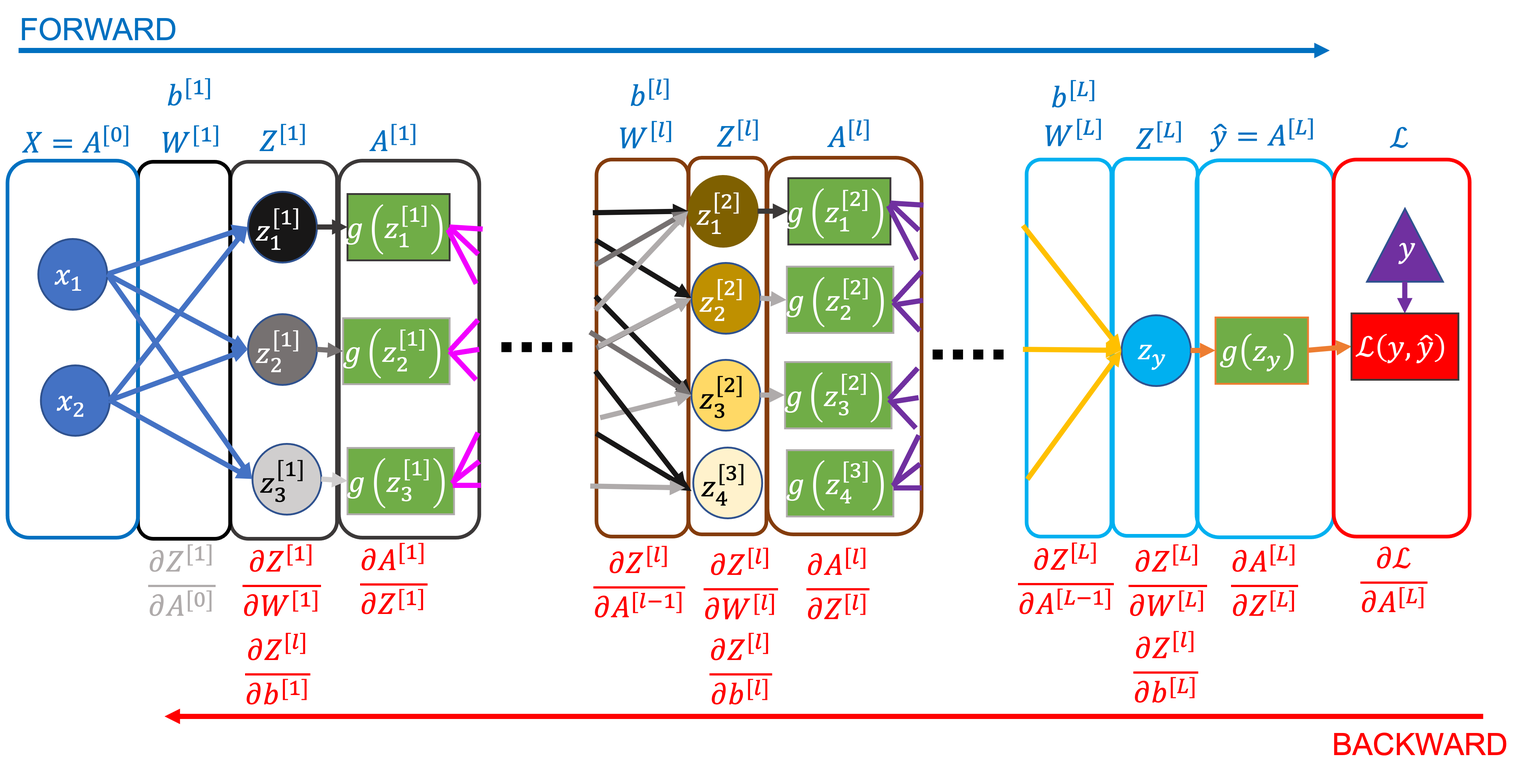
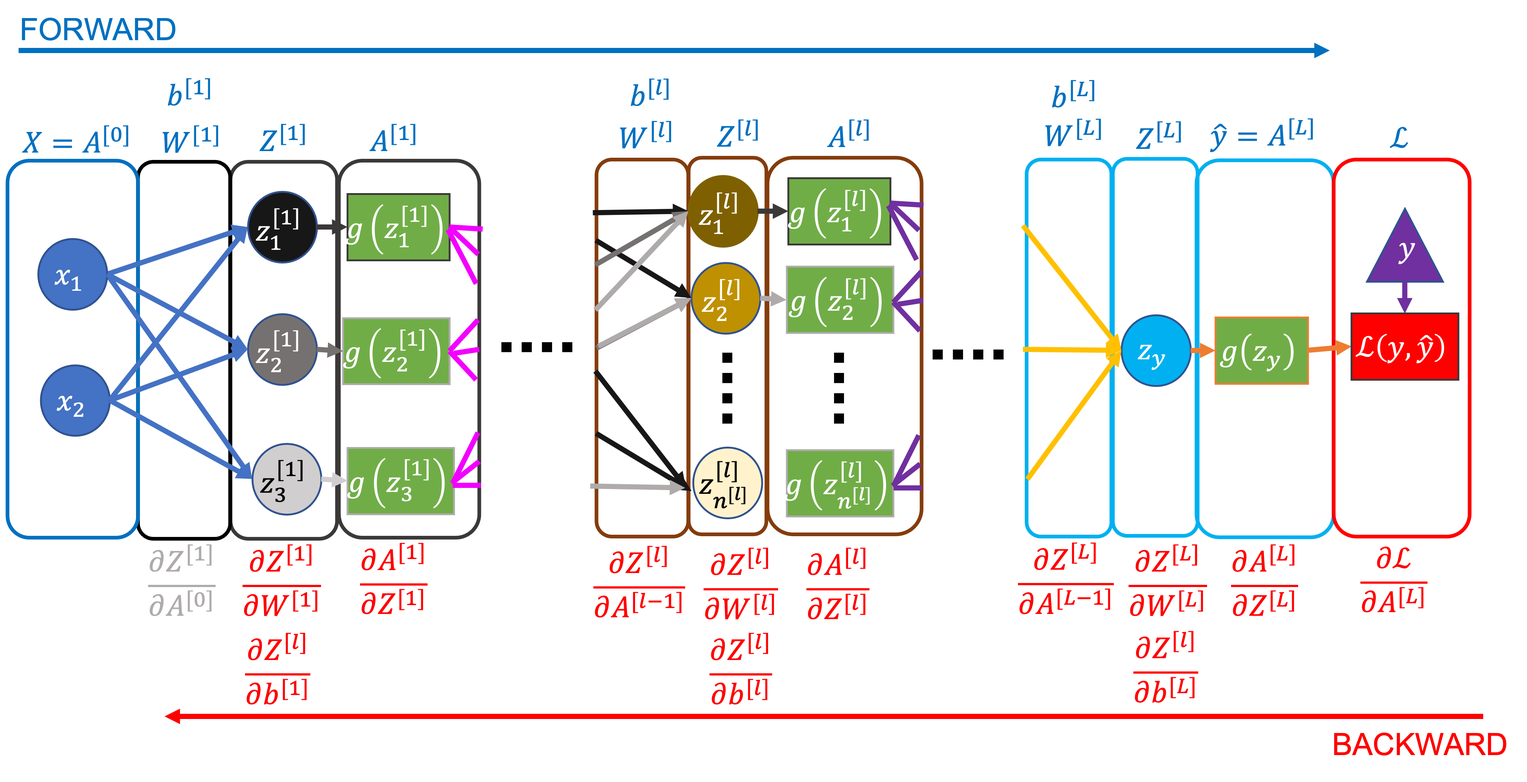
Deploying to gh-pages from @ jack89roberts/learning-deep-learning@58d3941f9498f17a0a6089c68a31f3fc6d2b3da1 🚀

diff --git a/searchindex.js b/searchindex.js
@@ -1,1 +1,1 @@
-Search.setIndex({docnames:["README","index","notebooks/01_linear_regression","notebooks/02_logistic_regression","notebooks/03_backprop","notebooks/04_matrix_notation","notebooks/05_relu","notebooks/06_multiclass"],envversion:{"sphinx.domains.c":2,"sphinx.domains.changeset":1,"sphinx.domains.citation":1,"sphinx.domains.cpp":5,"sphinx.domains.index":1,"sphinx.domains.javascript":2,"sphinx.domains.math":2,"sphinx.domains.python":3,"sphinx.domains.rst":2,"sphinx.domains.std":2,"sphinx.ext.intersphinx":1,sphinx:56},filenames:["README.md","index.md","notebooks/01_linear_regression.ipynb","notebooks/02_logistic_regression.ipynb","notebooks/03_backprop.ipynb","notebooks/04_matrix_notation.ipynb","notebooks/05_relu.ipynb","notebooks/06_multiclass.ipynb"],objects:{},objnames:{},objtypes:{},terms:{"0":[2,3,4,5,6,7],"00":2,"000000e":2,"001":2,"0030":3,"005":2,"0059909":2,"01":3,"0136":3,"0153":2,"01_happi":2,"02":[2,7],"025":2,"02_dummy_data":3,"0341":3,"05":3,"072423":2,"085261e":2,"094917e":2,"1":[2,5,6,7],"10":[2,3,6,7],"100":[2,3,6,7],"1000":[2,3],"10000":2,"109686":2,"11":[2,3],"119499e":2,"12":[2,6],"121838e":2,"1264":3,"13":[2,3,6],"1346":3,"14":[2,6],"1465":2,"15":[2,6],"15000":[2,3],"16":2,"1613":2,"163980e":2,"1649":3,"17":2,"171814e":2,"178392e":2,"18":3,"19":2,"1st":[2,3,5],"2":[5,6,7],"20":[2,7],"200":[3,6],"2000":3,"216":2,"217249e":2,"220604e":2,"24":[2,3],"25":[2,3],"250":7,"286937":2,"2920":3,"2929":2,"293":2,"2d":[2,3],"2m":2,"2n":2,"2nd":[2,3,5],"2u":4,"3":[2,3,4,5,6,7],"30":7,"30000":[3,7],"3080":2,"311051e":2,"3170":2,"3407":2,"343107e":2,"344933e":2,"3494":2,"35":3,"355":2,"389":2,"3d":3,"3f":2,"3rd":5,"4":[2,3],"40":7,"4054":2,"4111":2,"4113":3,"4204":3,"444550":2,"446739":2,"4600":3,"5":[2,3,6,7],"50":[2,7],"5000":[2,3],"5082":2,"509":2,"525590":2,"528":2,"5463":2,"550109e":2,"5579":3,"5619":2,"6":2,"628":2,"648788":2,"661338e":2,"677973e":2,"6969":3,"7":[2,3,6],"701":2,"7050":2,"7213":2,"75":2,"750":2,"8":[2,3],"802309":2,"817569e":2,"8198":3,"832":2,"832712":2,"854895806":3,"856466e":2,"863064":2,"885135748052889":2,"9":[3,6],"95":2,"9564e":2,"96":2,"97":2,"98":2,"99":[2,3],"999679e":2,"case":[2,3,4,5],"class":[2,3,7],"do":5,"final":[2,3,4],"float":[2,3,7],"function":[4,5,7],"import":[2,3,4,6],"long":[2,5],"new":[1,2,3,7],"return":[2,3,6],"true":[2,3,4,6],"try":3,A:[0,4,5],And:[2,5],As:2,But:[3,5],By:5,For:[3,4],If:4,In:[2,3,4,5,6],It:[1,3,4],No:2,One:3,Or:1,Such:4,The:[2,4,5],Then:[0,2,4],There:4,These:4,To:[0,2,3,4,5],With:[1,7],_:[2,3],a1:3,a_1:4,a_2:4,a_3:4,a_:4,a_k:4,abl:2,about:[1,3],abov:[2,4,5],academ:1,accumul:2,accur:5,activ:[2,3,4,5],actual:[2,3,4],ad:5,adapt:3,add:[2,3,5],add_ax:3,addit:2,addmmbackward0:2,after:[2,3,4],again:[2,4],aka:[3,5],algebra:1,algorithm:4,all:[2,3,4],allow:3,almost:3,alpha:[2,3,4],also:[3,4],altern:3,alwai:3,an:[2,3,4,5,7],analysi:1,ani:[4,5],anoth:3,anywher:2,appear:[2,3],append:[2,3],appli:[0,1,3,5,7],applic:3,ar:[2,3,4,5],arbitrari:7,aren:2,around:3,arrai:[2,3],arrang:2,arrow:[2,4,5],articl:3,assum:[3,4],automat:[2,4],avail:2,averag:2,ax:[2,3,6],axes_grid1:3,axi:[2,3],b00:3,b01:3,b:[2,3,4,5,6],b_1:5,b_2:4,b_:[2,5],b_h:2,b_k:4,b_plot:3,b_y:2,back:[2,3],backpropag:[2,3],backward:[2,3,4],balanc:3,base:2,basi:4,basic:2,batch:2,bce_l:3,bceloss:3,bcewithlogitsloss:3,been:1,befor:2,begin:5,belong:3,below:[2,3],best:2,better:2,between:[2,3,4,5],bia:[2,3,4,5],bias:[2,4],bigger:2,binari:3,black:2,blue:4,bmatrix:5,book:1,both:[2,3],bottom:2,bound:3,broadli:2,broken:2,brows:0,bs:3,build:[1,2],built:2,bwr:3,c:[2,3],c_:3,cach:4,calcul:4,calculu:1,call:[2,6],can:[4,5],captur:3,cax:3,cbar_kw:2,cell:6,center:3,cf:3,chang:[3,4],choic:2,choos:2,classic:1,classif:7,clear:5,clearer:4,clone:0,clumsi:5,cmap:3,coffe:2,collect:[0,2],color:[2,4,6],colorbar:3,colour:3,column:[2,5],com:3,combin:[3,4],come:[2,7],comfort:1,common:4,comput:[2,3,5],connect:[2,4],consid:[3,4,5],constrain:1,contain:5,continu:3,contourf:3,convent:2,converg:2,convert:2,convex:3,copi:[5,6],correspond:[2,5],cost:[4,5],could:[2,3,4],count:2,cours:1,cover:4,creat:[2,3,4,5],cross:3,csv:[2,3],cubic:[2,3],cup:2,current:[1,2,5],d:[1,2,3,4],dabbl:1,dai:2,data:[1,2,3,4,7],dataset:[3,5],deep:2,def:[2,3,6],defin:[2,3,5,6],definit:[2,3,5],deliveri:2,delta:2,dens:2,depend:0,deriv:[2,4],dervi:4,descent:5,describ:2,despit:1,detach:[2,3],detail:3,develop:1,deviat:2,df:2,diagram:[2,3],didn:1,differ:[2,5],differenti:2,dimens:5,directori:0,divid:[2,3],doc:3,document:[0,1],done:[2,3],down:[1,2],downward:3,dr:6,draw:3,drawn:3,drelu_dz:6,dsigmoid_dx:6,dtype:[2,3,7],due:[2,3],dummi:3,dure:4,e3baef06a00bb9a39a6968acf78121e:3,e:[1,2,3,4,5],each:[2,3,4,5],earlier:[2,3],easier:3,eat:2,edg:4,effect:3,effici:5,element:5,els:3,encount:3,end:[5,7],engin:1,enough:2,entir:2,entropi:3,epoch:[2,3],equat:5,error:[2,3],erwan:3,estim:3,etc:4,everi:[3,5],everyth:3,exactli:5,exampl:[2,3,5,7],except:4,exp:[3,4,6],expand:[2,5],experi:1,explicit:5,explicitli:[3,5],exposur:1,express:[2,4,5],extra:2,f:[2,3,4,7],fairli:[1,4],fals:[3,7],familiar:5,far:[3,5],faster:2,featur:[2,4,5],feed:4,few:1,fig:[2,3,6],figsiz:[2,3,6],figur:3,find:2,first:[2,3,4,5],fit:2,fit_and_plot:3,flexibl:7,fn00:3,fn01:3,fn10:3,focu:1,focus:1,follow:[3,4,5],form:[2,4,5],formal:1,forward:2,found:2,four:4,frac:[2,3,4],framework:4,from:[1,2,4,5],g00:3,g01:3,g:[1,3,4,5],gener:[1,3,4,5],geq:3,get:[2,3,4,5],get_cubic_data:[3,7],get_figur:3,gist:3,github:[0,3],give:3,given:[2,4,5],go:[2,5],gpu:2,grad_fn:[2,3],gradient:5,gradient_desc:2,grai:4,green:4,group:1,guess:2,h:[2,4],h_:2,ha:[2,3,4,5],had:[1,2,3],happi:2,hat:[2,3,4,5],have:[1,2,3,4,5],heatmap:2,help:1,here:[2,3,4,5,7],hiddden:3,hidden:[2,4,5,7],higher:2,hope:1,how:[2,3,4,5],http:[0,3],hyperparamet:2,i:[2,3,4],idea:3,ident:3,imbalanc:3,implement:[2,3,4],implicit:2,improv:3,in_featur:[2,3,7],includ:[2,4],increas:[2,7],indic:2,individu:5,ineffici:5,infti:3,initi:[2,3],initialis:2,inner:2,input:[2,4,5],instal:0,intercept:2,interest:[3,4],interfac:0,intermedi:[4,5],introduc:4,intuit:[1,2,7],involv:4,io:0,ipykernel_1815:3,iter:[2,5],iterrow:2,itertool:[2,3],its:[2,3,4],j:[4,5],jack89robert:0,jax:4,job:1,journal:1,journei:[0,1],jupyt:0,just:2,k:[2,3,4],know:2,known:[2,3],l:[2,3,4,5],label:[2,3,4,6,7],labels_predict:3,lambda:3,larg:2,last:[4,5,6],later:2,latest:1,layer:[4,7],learn:4,learning_r:[2,3,7],left:[2,3,4],legend:[2,3,6],len:[2,3],length:[2,3],leq:[2,3],less:5,let:[2,3,4],librari:2,like:[1,2,3,4],likelihood:3,limit:3,line:[2,5,6],linear:[1,4,5,7],linear_model:3,linearli:3,linearregress:3,linewidth:[2,3],linspac:[2,3,6],littl:1,ll:[2,3],loadtxt:3,loc:3,local:3,log:[3,4],log_loss:3,logist:7,longer:3,look:3,loop:[2,4],loss:[4,5],loss_fn:[2,3,7],loss_histori:[2,3,7],loss_valu:[2,3],lot:1,lower:3,lr:[2,3,7],lw:3,m:[2,5],machin:1,magenta:4,mai:[1,2],main:[1,2],major:4,make:[2,3,4,5],make_axes_locat:3,mani:[1,2,4],manual:3,map:3,marker:3,match:2,math:2,mathbf:5,mathcal:[4,5],mathrm:4,matplotlib:[2,3],matric:5,matrix:4,max:[2,3],maximis:2,maximum:3,me:2,mean:[2,3,4],mean_squared_error:3,meshgrid:3,method:1,metric:3,might:[3,5],min:[2,3],mini:2,minima:3,minimis:2,minimum:2,misclassifi:3,model:[2,3,7],modifi:3,more:[1,2,3,5,7],most:[2,6],mostli:[1,4],move:[1,4,5],mpl_toolkit:3,mse:2,mse_l:3,mseloss:2,much:5,multi:7,multipli:[2,4,5],must:4,my:[0,1],myself:1,n:[2,3,5,7],name:[2,3,6],named_paramet:[2,3],nameerror:6,natur:2,nb:2,necessarili:2,need:[2,3,4,5],neg:3,network:[4,5,7],neural:4,new_horizont:3,next:2,nfor:7,nice:2,nn:[2,3,7],node:4,non:[2,3,7],none:[2,3,7],normal:3,notat:2,note:[2,3,4],now:[2,3,5],np:[2,3,6],number:[2,5,7],numer:3,numpi:[2,3,5,6],o:2,offic:2,often:3,one:[2,3,4,5],onli:2,oper:[4,5],optim:[2,3,7],optimis:[1,2,3],orang:[2,4,6],order:2,other:[1,3,5],otherwis:3,our:[2,3,4],out:2,out_featur:[2,3,7],outlier:3,output:[2,3,4,5],over:[1,2],overal:4,overflow:3,own:2,packag:0,pad:3,painstakingli:2,panda:2,param:[2,3],paramet:[2,3,4,5,7],part:[2,3],partial:[2,4],pass:2,pd:2,per:[2,5],perfectli:3,perform:[4,7],pick:2,pip:0,plan:1,plot:[2,3,6],plot_decision_boundari:3,plot_loss_grid_1d:2,plot_loss_grid_2d:2,plot_predict:2,plot_surfac:3,plt:[2,3,6],plu:2,point:[3,4,5,7],polynomi:3,poor:7,posit:3,possibl:4,potenti:7,pre:1,pred:[2,3],predict:[2,3,4,5],predictor:[3,5],prefer:3,presenc:3,previou:[2,4,5],previous:7,print:[2,3],print_weight:[3,7],probabl:3,problem:5,product:[2,3],progress:1,project:[1,3],propag:2,properti:4,provid:3,py:3,pyplot:[2,3],python:1,pytorch:4,quadrat:2,quantiti:4,r:[0,2,3,6],random:[2,3],randomli:2,rang:[2,3],rare:1,rate:[2,4],rather:[3,5],ravel:3,re:[2,3],read:1,read_csv:2,recent:[1,6],recov:3,recreat:3,red:4,reduc:2,region:3,regress:[1,7],regularis:7,rel:2,relabel:4,rememb:[2,3,4],remind:3,replac:[2,4],repo:0,repres:[4,5],requir:0,requisit:1,research:1,reshap:[2,3],resourc:1,respect:[2,3,4,5],right:[2,3,4,5],rightarrow:[2,4,5],round:2,row:[2,5],run:0,runtimewarn:3,s:[1,4,5,7],same:[2,3,4,5],sampl:[2,3],saw:3,scale:[2,3],scatter:[2,3],scienc:1,seaborn:2,second:[2,5],see:[0,2,3],seen:[4,5],select:2,sens:1,sensit:3,separ:3,sequenc:2,sequenti:[2,3,7],set_titl:[2,3],set_xlabel:[2,3,6],set_ylabel:[2,3],set_ylim:3,set_zlabel:3,seven:4,sgd:[2,3,7],shape:3,share:4,sharei:[2,6],sharex:6,show:[3,5],show_actu:3,show_data:3,show_result:[3,7],shown:[2,3],side:[1,4],sigma:6,sigmoid:[4,6,7],similar:[1,2],simon:3,simpl:[3,4],simpler:[4,5],simplifi:4,singl:[2,3],site:0,six:5,size:[2,3,5],sklearn:3,slicebackward0:[2,3],slightli:2,slope:3,slower:2,small:[2,4],sn:2,so:[2,3,4,5],softmax:7,softwar:1,some:[2,3],someth:3,specif:2,squar:[2,3],stabil:3,staff:2,stage:2,standard:2,standardis:2,start:[0,2,3,4],statist:1,std:2,step:[2,3,5],stick:5,still:[2,3],stochast:2,stop:2,str:2,structur:[2,5],subplot:[2,3,6],subplot_kw:3,subset:2,sum:[2,3,4],sum_:2,sum_i:3,suptitl:[3,7],surf:3,surfac:3,t:[1,2,3],take:2,team:1,techniqu:1,tensor:[2,3,7],tensorflow:[2,4],term:[2,3,4,5],test:7,text:[2,3,6],textrm:3,than:[3,5],thei:[1,2,5],them:[1,2,3],thi:[1,4,5],those:[4,5],though:2,thought:1,through:[2,4,5],tidi:2,tight_layout:[2,3],time:[1,2,5],titl:[2,3],tmp:3,togeth:5,too:[1,2],topic:1,torch:[2,3,7],total:5,toward:2,traceback:6,train:[1,2,3,4,7],trend:4,ture:2,two:[2,3,4,5,7],txt:0,u:4,uncertain:3,until:4,up:[2,3],updat:[2,4],upper:3,upward:3,us:[1,2,4,5,6],usual:2,vallei:2,valu:[2,3,4],vari:2,variou:1,ve:[2,3,4,5],vector:5,veri:[1,3],vertic:2,via:[1,4],viridi:3,visualis:3,vmax:3,vmin:3,vs:3,w00:3,w01:3,w1_plot:2,w2_plot:2,w:[3,4,5],w_1:[2,3,4],w_2:[2,3],w_3:3,w_4:3,w_5:3,w_6:3,w_7:3,w_8:3,w_9:3,w_:[2,4,5],w_h:2,w_plot:3,w_x:2,wa:[3,7],wai:[3,5],want:[2,3,4,5],wasn:[1,2],we:[2,3,4,5],web:0,weight:[2,3,4,5],well:2,what:5,when:[2,3],where:[2,3,4,5],which:[3,5],whilst:1,white:3,whole:5,wise:5,without:2,word:5,work:[1,2],wors:2,would:[2,5],write:[1,2,4],written:5,ws:3,wx:[2,3],x:[3,4,5,7],x_1:[2,4,5],x_2:[2,4,5],x_:[2,5],x_i:5,x_span:3,xlabel:3,xlim:3,xmax:3,xmin:3,xticklabel:2,xx:3,xy:3,y:[3,4,5,7],y_hat:2,y_i:[2,3],y_span:3,year:1,yhat:3,ylabel:3,ylim:3,ymax:3,ymin:3,you:[3,4,5],yourself:0,yticklabel:2,yy:3,z:[3,5,6],z_1:[4,5],z_2:4,z_3:4,zero:[2,3],zero_grad:[2,3],zeroth:5,zorder:2},titles:["learning-deep-learning","Learning Deep Learning [WIP!]","01: Linear Regression","02: Logistic Regression","03: Back Propagation","04: Matrix Notation","04: ReLU and Other Activation Functions","05:"],titleterms:{"01":2,"02":3,"03":4,"04":[5,6],"05":7,"1":[3,4],"2":[2,3,4],"function":[2,3,6],The:3,activ:6,ad:[2,3],all:5,auto:4,awai:3,b_1:4,back:4,background:4,backward:5,batch:5,book:0,boundari:3,broadcast:5,build:0,can:[2,3],chain:4,classif:3,comput:4,data:5,dataset:2,decis:3,deep:[0,1],descent:[2,4],differenti:4,dot:5,effici:4,exampl:4,featur:3,fit:[3,7],forward:[4,5],from:3,given:3,go:3,gradient:[2,4,6],graph:4,hidden:3,i:1,input:3,just:3,layer:[2,3,5],learn:[0,1,2],linear:[2,3],logist:3,loss:[2,3],matrix:5,messag:3,miss:2,move:3,multi:4,multipl:[4,5],network:[2,3],neural:[2,3],node:[2,3,5],notat:5,notebook:0,onli:3,origin:3,other:6,overfit:7,pass:[4,5],path:4,product:5,propag:4,pytorch:[2,3],recap:4,regress:[2,3],relu:6,result:3,rule:4,s:[2,3],sampl:5,second:3,sigmoid:3,singl:5,solut:3,stabil:7,summari:5,takeawai:3,thi:[2,3],type:[2,3],us:3,valu:5,vanish:6,variat:4,w_2:4,wa:1,what:[2,3],who:1,why:[2,3],wip:1,x:2,x_1:3,x_2:3,y:2}})
+Search.setIndex({docnames:["README","index","notebooks/01_linear_regression","notebooks/02_logistic_regression","notebooks/03_backprop","notebooks/04_matrix_notation","notebooks/05_relu","notebooks/06_multiclass"],envversion:{"sphinx.domains.c":2,"sphinx.domains.changeset":1,"sphinx.domains.citation":1,"sphinx.domains.cpp":5,"sphinx.domains.index":1,"sphinx.domains.javascript":2,"sphinx.domains.math":2,"sphinx.domains.python":3,"sphinx.domains.rst":2,"sphinx.domains.std":2,"sphinx.ext.intersphinx":1,sphinx:56},filenames:["README.md","index.md","notebooks/01_linear_regression.ipynb","notebooks/02_logistic_regression.ipynb","notebooks/03_backprop.ipynb","notebooks/04_matrix_notation.ipynb","notebooks/05_relu.ipynb","notebooks/06_multiclass.ipynb"],objects:{},objnames:{},objtypes:{},terms:{"0":[2,3,4,5,6,7],"00":2,"000000e":2,"001":2,"0022":3,"005":2,"0059909":2,"0078":2,"0080":3,"01":3,"01_happi":2,"02":[2,7],"025":2,"02_dummy_data":3,"0331":3,"05":3,"072423":2,"0769":3,"085261e":2,"09":2,"094917e":2,"1":[2,5,6,7],"10":[2,3,6,7],"100":[2,3,6,7],"1000":[2,3],"10000":2,"109686":2,"11":2,"119499e":2,"12":[2,6],"121838e":2,"13":[2,6],"1304":2,"14":[2,6],"1471":3,"15":[2,6],"15000":[2,3],"16":[2,3],"163980e":2,"17":2,"171814e":2,"178392e":2,"18":3,"19":2,"1930":2,"1st":[2,3,5],"2":[5,6,7],"20":[2,7],"200":[3,6],"2087":2,"216":2,"217249e":2,"220604e":2,"24":2,"25":[2,3],"250":7,"2509":2,"27":3,"286937":2,"2929":2,"293":2,"2d":[2,3],"2m":2,"2n":2,"2nd":[2,3,5],"2u":4,"3":[2,3,4,5,6,7],"30":7,"30000":[3,7],"311051e":2,"343107e":2,"344933e":2,"35":3,"355":2,"3819":2,"3871":2,"389":2,"3899":3,"3975":2,"3d":3,"3f":2,"3rd":5,"4":[2,3],"40":7,"4156":2,"4333":3,"444550":2,"446739":2,"4636":3,"4817":3,"5":[2,3,6,7],"50":[2,7],"5000":[2,3],"5021":3,"509":2,"525590":2,"528":2,"5336":3,"550109e":2,"5592":2,"5635":2,"5857":2,"5884":2,"6":2,"628":2,"6281":3,"6303":3,"648788":2,"661338e":2,"677973e":2,"7":[2,3,6],"701":2,"7050":2,"75":2,"750":2,"8":[2,3],"802309":2,"817569e":2,"8205":3,"832":2,"832712":2,"856466e":2,"863064":2,"885135748052889":2,"9":[3,6],"9427e":2,"95":2,"96":2,"97":2,"98":2,"99":[2,3],"999679e":2,"case":[2,3,4,5],"class":[2,3,7],"do":5,"final":[2,3,4],"float":[2,3,7],"function":[4,5,7],"import":[2,3,4,6],"long":[2,5],"new":[1,2,3,7],"return":[2,3,6],"true":[2,3,4,6],"try":3,A:[0,4,5],And:[2,5],As:2,But:[3,5],By:5,For:[3,4],If:4,In:[2,3,4,5,6],It:[1,3,4,5],No:2,One:3,Or:1,Such:4,The:[2,4,5],Then:[0,2,4],There:4,These:4,To:[0,2,3,4,5],With:[1,7],_:[2,3],a1:3,a_1:4,a_2:4,a_3:4,a_:4,a_k:4,abl:2,about:[1,3],abov:[2,4,5],academ:1,accumul:2,accur:5,activ:[2,3,4,5],actual:[2,3,4],ad:5,adapt:3,add:[2,3,5],add_ax:3,addit:2,addmmbackward0:2,after:[2,3,4],again:[2,4],aka:[3,5],algebra:1,algorithm:4,all:[2,3,4],allow:3,almost:3,alpha:[2,3,4],also:[3,4],altern:3,alwai:3,an:[2,3,4,5,7],analysi:1,ani:[4,5],anoth:3,anywher:2,appear:[2,3],append:[2,3],appli:[0,1,3,5,7],applic:3,ar:[2,3,4,5],arbitrari:7,aren:2,around:3,arrai:[2,3],arrang:2,arrow:[2,4,5],articl:3,assum:[3,4,5],automat:[2,4],avail:2,averag:2,ax:[2,3,6],axes_grid1:3,axi:[2,3],b00:3,b01:3,b:[2,3,4,5,6],b_1:5,b_2:4,b_:[2,5],b_h:2,b_k:4,b_plot:3,b_y:2,back:[2,3,5],backpropag:[2,3],backward:[2,3,4],balanc:3,base:2,basi:4,basic:2,batch:2,bce_l:3,bceloss:3,bcewithlogitsloss:3,been:1,befor:2,begin:5,belong:3,below:[2,3,5],best:2,better:2,between:[2,3,4,5],bia:[2,3,4,5],bias:[2,4],bigger:2,binari:3,black:2,blue:4,bmatrix:5,book:1,both:[2,3],bottom:2,bound:3,broadli:2,broken:2,brows:0,bs:3,build:[1,2],built:2,bwr:3,c:[2,3],c_:3,cach:4,calcul:4,calculu:1,call:[2,6],can:[4,5],captur:3,cax:3,cbar_kw:2,cell:6,center:3,cf:3,chang:[3,4],choic:2,choos:2,classic:1,classif:7,clear:5,clearer:4,clone:0,clumsi:5,cmap:3,coffe:2,collect:[0,2],color:[2,4,6],colorbar:3,colour:3,column:[2,5],com:3,combin:[3,4],come:[2,7],comfort:1,common:4,comput:[2,3,5],connect:[2,4,5],consid:[3,4,5],constrain:1,contain:5,continu:3,contourf:3,convent:2,converg:2,convert:2,convex:3,copi:[5,6],correspond:[2,5],cost:[4,5],could:[2,3,4],count:2,cours:1,cover:4,creat:[2,3,4,5],cross:3,csv:[2,3],cubic:[2,3],cup:2,current:[1,2,5],d:[1,2,3,4],dabbl:1,dai:2,data:[1,2,3,4,7],dataset:[3,5],deep:2,def:[2,3,6],defin:[2,3,5,6],definit:[2,3],deliveri:2,delta:2,dens:2,depend:0,deriv:[2,4],dervi:4,descent:5,describ:2,despit:1,detach:[2,3],detail:3,develop:1,deviat:2,df:2,diagram:[2,3],didn:1,differ:[2,5],differenti:2,dimens:5,directori:0,divid:[2,3],doc:3,document:[0,1],done:[2,3],down:[1,2],downward:3,dr:6,draw:3,drawn:3,drelu_dz:6,dsigmoid_dx:6,dtype:[2,3,7],due:[2,3],dummi:3,dure:4,e3baef06a00bb9a39a6968acf78121e:3,e:[1,2,3,4,5],each:[2,3,4,5],earlier:[2,3],easier:3,eat:2,edg:4,effect:3,effici:5,element:5,els:3,end:[5,7],engin:1,enough:2,entir:2,entropi:3,epoch:[2,3],equat:5,error:[2,3],erwan:3,estim:3,etc:4,everi:[3,5],everyth:3,exactli:5,exampl:[2,3,7],except:4,exp:[3,4,6],expand:[2,5],experi:1,explicit:5,explicitli:[3,5],exposur:1,express:[2,4,5],extra:2,f:[2,3,4,7],fairli:[1,4],fals:[3,7],familiar:5,far:[3,5],faster:2,featur:[2,4,5],feed:4,few:1,fig:[2,3,6],figsiz:[2,3,6],figur:3,find:2,first:[2,3,4,5],fit:2,fit_and_plot:3,flexibl:7,fn00:3,fn01:3,fn10:3,focu:1,focus:1,follow:[3,4,5],form:[2,4,5],formal:1,forward:2,found:2,four:4,frac:[2,3,4],framework:4,from:[1,2,4,5],g00:3,g01:3,g:[1,3,4,5],gener:[1,3,4,5],geq:3,get:[2,3,4,5],get_cubic_data:[3,7],get_figur:3,gist:3,github:[0,3],give:3,given:[2,4,5],go:[2,5],gpu:2,grad_fn:[2,3],gradient:5,gradient_desc:2,grai:4,green:4,group:1,guess:2,h:[2,4],h_:2,ha:[2,3,4,5],had:[1,2,3],happi:2,hat:[2,3,4,5],have:[1,2,3,4,5],heatmap:2,help:1,here:[2,3,4,5,7],hiddden:3,hidden:[2,4,5,7],higher:2,hope:1,how:[2,3,4,5],http:[0,3],hyperparamet:2,i:[2,3,4],idea:3,ident:3,imbalanc:3,implement:[2,3,4],implicit:2,improv:3,in_featur:[2,3,7],includ:[2,4],increas:[2,7],indic:2,individu:5,ineffici:5,infti:3,initi:[2,3],initialis:2,inner:2,input:[2,4,5],instal:0,intercept:2,interest:[3,4],interfac:0,intermedi:[4,5],introduc:4,intuit:[1,2,7],involv:4,io:0,iter:[2,5],iterrow:2,itertool:[2,3],its:[2,3,4],j:[4,5],jack89robert:0,jax:4,job:1,journal:1,journei:[0,1],jupyt:0,just:2,k:[2,3,4],know:2,known:[2,3],l:[2,3,4,5],label:[2,3,4,5,6,7],labels_predict:3,lambda:3,larg:2,last:[4,5,6],later:2,latest:1,layer:[4,7],learn:4,learning_r:[2,3,7],left:[2,3,4],legend:[2,3,6],len:[2,3],length:[2,3],leq:[2,3],less:5,let:[2,3,4],librari:2,like:[1,2,3,4],likelihood:3,limit:3,line:[2,5,6],linear:[1,4,5,7],linear_model:3,linearli:3,linearregress:3,linewidth:[2,3],linspac:[2,3,6],littl:1,ll:[2,3,5],loadtxt:3,loc:3,local:3,log:[3,4],log_loss:3,logist:7,longer:3,look:3,loop:[2,4],loss:[4,5],loss_fn:[2,3,7],loss_histori:[2,3,7],loss_valu:[2,3],lot:1,lower:3,lr:[2,3,7],lw:3,m:[2,5],machin:1,magenta:4,mai:[1,2],main:[1,2],major:4,make:[2,3,4,5],make_axes_locat:3,mani:[1,2,4],manual:3,map:3,marker:3,match:2,math:2,mathbf:5,mathcal:[4,5],mathrm:4,matplotlib:[2,3],matric:5,matrix:4,max:[2,3],maximis:2,maximum:3,me:2,mean:[2,3,4],mean_squared_error:3,meshgrid:3,method:1,metric:3,might:[3,5],min:[2,3],mini:2,minima:3,minimis:2,minimum:2,misclassifi:3,model:[2,3,7],modifi:3,more:[1,2,3,5,7],most:[2,6],mostli:[1,4],move:[1,4,5],mpl_toolkit:3,mse:2,mse_l:3,mseloss:2,much:5,multi:7,multipli:[2,4,5],must:4,my:[0,1],myself:1,n:[2,3,5,7],name:[2,3,6],named_paramet:[2,3],nameerror:6,natur:2,nb:2,necessarili:2,need:[2,3,4,5],neg:3,network:[4,7],neural:4,new_horizont:3,next:2,nfor:7,nice:2,nn:[2,3,7],node:4,non:[2,3,7],none:[2,3,7],normal:3,notat:2,note:[2,3,4],now:[2,3,5],np:[2,3,6],number:[2,5,7],numer:3,numpi:[2,3,5,6],o:2,offic:2,often:3,one:[2,3,4,5],onli:2,oper:[4,5],optim:[2,3,7],optimis:[1,2,3],orang:[2,4,6],order:2,other:[1,3,5],otherwis:3,our:[2,3,4],out:2,out_featur:[2,3,7],outlier:3,output:[2,3,4,5],over:[1,2],overal:4,own:2,packag:0,pad:3,painstakingli:2,panda:2,param:[2,3],paramet:[2,3,4,5,7],part:[2,3],partial:[2,4],pass:2,pd:2,per:[2,5],perfectli:3,perform:[4,7],pick:2,pip:0,plan:1,plot:[2,3,6],plot_decision_boundari:3,plot_loss_grid_1d:2,plot_loss_grid_2d:2,plot_predict:2,plot_surfac:3,plt:[2,3,6],plu:2,point:[3,4,5,7],polynomi:3,poor:7,posit:3,possibl:4,potenti:7,pre:1,pred:[2,3],predict:[2,3,4,5],predictor:[3,5],prefer:3,presenc:3,previou:[2,4,5],previous:7,print:[2,3],print_weight:[3,7],probabl:3,problem:5,product:[2,3],progress:1,project:[1,3],propag:2,properti:4,provid:3,pyplot:[2,3],python:1,pytorch:4,quadrat:2,quantiti:4,r:[0,2,3,6],random:[2,3],randomli:2,rang:[2,3],rare:1,rate:[2,4],rather:[3,5],ravel:3,re:[2,3,5],read:1,read_csv:2,recent:[1,6],recov:3,recreat:3,red:4,reduc:2,refer:5,region:3,regress:[1,7],regularis:7,rel:2,relabel:4,rememb:[2,3,4],remind:3,replac:[2,4],repo:0,repres:[4,5],requir:0,requisit:1,research:1,reshap:[2,3],resourc:1,respect:[2,3,4,5],right:[2,3,4,5],rightarrow:[2,4,5],round:2,row:[2,5],run:0,s:[1,4,5,7],same:[2,3,4,5],sampl:[2,3],saw:3,scale:[2,3],scatter:[2,3],scienc:1,seaborn:2,second:[2,5],section:5,see:[0,2,3],seen:[4,5],select:2,sens:1,sensit:3,separ:3,sequenc:2,sequenti:[2,3,7],set_titl:[2,3],set_xlabel:[2,3,6],set_ylabel:[2,3],set_ylim:3,set_zlabel:3,seven:4,sgd:[2,3,7],shape:3,share:4,sharei:[2,6],sharex:6,show:[3,5],show_actu:3,show_data:3,show_result:[3,7],shown:[2,3],side:[1,4],sigma:6,sigmoid:[4,6,7],similar:[1,2],simon:3,simpl:[3,4],simpler:[4,5],simplifi:4,singl:[2,3],site:0,six:5,size:[2,3,5],sklearn:3,slicebackward0:[2,3],slightli:2,slope:3,slower:2,small:[2,4],sn:2,so:[2,3,4,5],softmax:7,softwar:1,some:[2,3],someth:3,specif:2,squar:[2,3],stabil:3,staff:2,stage:2,standard:2,standardis:2,start:[0,2,3,4,5],statist:1,std:2,step:[2,3,5],stick:5,still:[2,3],stochast:2,stop:2,str:2,structur:[2,5],subplot:[2,3,6],subplot_kw:3,subset:2,sum:[2,3,4],sum_:2,sum_i:3,suptitl:[3,7],surf:3,surfac:3,t:[1,2,3],take:2,team:1,techniqu:1,tensor:[2,3,7],tensorflow:[2,4],term:[2,3,4,5],test:7,text:[2,3,6],textrm:3,than:[3,5],thei:[1,2,5],them:[1,2,3],thi:[1,4,5],those:[4,5],though:2,thought:1,through:[2,4,5],throughout:5,tidi:2,tight_layout:[2,3],time:[1,2,5],titl:[2,3],togeth:5,too:[1,2],topic:1,torch:[2,3,7],total:5,toward:2,traceback:6,train:[1,2,3,4,7],trend:4,ture:2,two:[2,3,4,5,7],txt:0,u:4,uncertain:3,unspecifi:5,until:4,up:[2,3],updat:[2,4],upper:3,upward:3,us:[1,2,4,5,6],usual:2,vallei:2,valu:[2,3,4],vari:2,variou:1,ve:[2,3,4,5],vector:5,veri:[1,3],vertic:2,via:[1,4],viridi:3,visualis:3,vmax:3,vmin:3,vs:3,w00:3,w01:3,w1_plot:2,w2_plot:2,w:[3,4,5],w_1:[2,3,4],w_2:[2,3],w_3:3,w_4:3,w_5:3,w_6:3,w_7:3,w_8:3,w_9:3,w_:[2,4,5],w_h:2,w_plot:3,w_x:2,wa:[3,7],wai:[3,5],want:[2,3,4,5],wasn:[1,2],we:[2,3,4,5],web:0,weight:[2,3,4,5],well:2,what:5,when:[2,3],where:[2,3,4,5],which:[3,5],whilst:1,white:3,whole:5,wise:5,without:2,word:5,work:[1,2],wors:2,would:[2,5],write:[1,2,4],written:5,ws:3,wx:[2,3],x:[3,4,5,7],x_1:[2,4,5],x_2:[2,4,5],x_:[2,5],x_i:5,x_span:3,xlabel:3,xlim:3,xmax:3,xmin:3,xticklabel:2,xx:3,xy:3,y:[3,4,5,7],y_hat:2,y_i:[2,3],y_span:3,year:1,yhat:3,ylabel:3,ylim:3,ymax:3,ymin:3,you:[3,4,5],yourself:0,yticklabel:2,yy:3,z:[3,5,6],z_1:[4,5],z_2:4,z_3:4,zero:[2,3],zero_grad:[2,3],zeroth:5,zorder:2},titles:["learning-deep-learning","Learning Deep Learning [WIP!]","01: Linear Regression","02: Logistic Regression","03: Back Propagation","04: Matrix Notation","04: ReLU and Other Activation Functions","05:"],titleterms:{"01":2,"02":3,"03":4,"04":[5,6],"05":7,"1":[3,4],"2":[2,3,4],"function":[2,3,6],The:3,activ:6,ad:[2,3],all:5,auto:4,awai:3,b_1:4,back:4,background:4,backward:5,batch:5,book:0,boundari:3,broadcast:5,build:0,can:[2,3],chain:4,classif:3,comput:4,data:5,dataset:2,decis:3,deep:[0,1],definit:5,descent:[2,4],differenti:4,dot:5,effici:4,exampl:[4,5],featur:3,fit:[3,7],forward:[4,5],from:3,given:3,go:3,gradient:[2,4,6],graph:4,hidden:3,i:1,input:3,just:3,layer:[2,3,5],learn:[0,1,2],linear:[2,3],logist:3,loss:[2,3],matrix:5,messag:3,miss:2,move:3,multi:4,multipl:[4,5],network:[2,3,5],neural:[2,3],node:[2,3,5],notat:5,notebook:0,onli:3,origin:3,other:6,overfit:7,pass:[4,5],path:4,product:5,propag:4,pytorch:[2,3],recap:4,regress:[2,3],relu:6,result:3,rule:4,s:[2,3],sampl:5,second:3,sigmoid:3,singl:5,solut:3,stabil:7,summari:5,takeawai:3,thi:[2,3],type:[2,3],us:3,valu:5,vanish:6,variat:4,w_2:4,wa:1,what:[2,3],who:1,why:[2,3],wip:1,x:2,x_1:3,x_2:3,y:2}})

diff --git a/notebooks/02_logistic_regression.html b/notebooks/02_logistic_regression.html
@@ -882,9 +882,9 @@ g(z) = \textrm{sigmoid}(z) = \frac{1}{1 + \exp(-z)}
 </div>
 <div class="cell_output docutils container">
 <div class="output stream highlight-myst-ansi notranslate"><div class="highlight"><pre><span></span>Done!
-Layer: 0.weight | Size: torch.Size([1, 1]) | Values : tensor([[5.4600]], grad_fn=&lt;SliceBackward0&gt;) 
+Layer: 0.weight | Size: torch.Size([1, 1]) | Values : tensor([[5.4636]], grad_fn=&lt;SliceBackward0&gt;) 
 
-Layer: 0.bias | Size: torch.Size([1]) | Values : tensor([0.8198], grad_fn=&lt;SliceBackward0&gt;) 
+Layer: 0.bias | Size: torch.Size([1]) | Values : tensor([0.8205], grad_fn=&lt;SliceBackward0&gt;) 
 </pre></div>
 </div>
 </div>
@@ -1095,9 +1095,9 @@ Layer: 0.bias | Size: torch.Size([1]) | Values : tensor([0.8198], grad_fn=&lt;Sl
 </div>
 <div class="cell_output docutils container">
 <div class="output stream highlight-myst-ansi notranslate"><div class="highlight"><pre><span></span>Done!
-Layer: 0.weight | Size: torch.Size([1, 2]) | Values : tensor([[ 1.4113, -3.1264]], grad_fn=&lt;SliceBackward0&gt;) 
+Layer: 0.weight | Size: torch.Size([1, 2]) | Values : tensor([[ 1.4333, -3.0022]], grad_fn=&lt;SliceBackward0&gt;) 
 
-Layer: 0.bias | Size: torch.Size([1]) | Values : tensor([0.0341], grad_fn=&lt;SliceBackward0&gt;) 
+Layer: 0.bias | Size: torch.Size([1]) | Values : tensor([0.0331], grad_fn=&lt;SliceBackward0&gt;) 
 </pre></div>
 </div>
 <img alt="../_images/02_logistic_regression_34_1.png" src="../_images/02_logistic_regression_34_1.png" />
@@ -1144,14 +1144,14 @@ z = w_1 x_1^3 + w_2 x_1^2 x_2 + w_3 x_1 x_2^2 + w_4 x_2^3 + w_5 x_1 ^2 + w_6 x_1
 </div>
 <div class="cell_output docutils container">
 <div class="output stream highlight-myst-ansi notranslate"><div class="highlight"><pre><span></span>Done!
-Layer: 0.weight | Size: torch.Size([2, 2]) | Values : tensor([[  1.4204,  -0.6969],
-        [-11.0136,  -9.1346]], grad_fn=&lt;SliceBackward0&gt;) 
+Layer: 0.weight | Size: torch.Size([2, 2]) | Values : tensor([[10.3899,  9.4817],
+        [ 1.5021, -0.6303]], grad_fn=&lt;SliceBackward0&gt;) 
 
-Layer: 0.bias | Size: torch.Size([2]) | Values : tensor([-0.1649,  0.0030], grad_fn=&lt;SliceBackward0&gt;) 
+Layer: 0.bias | Size: torch.Size([2]) | Values : tensor([0.0769, 0.0080], grad_fn=&lt;SliceBackward0&gt;) 
 
-Layer: 2.weight | Size: torch.Size([1, 2]) | Values : tensor([[24.2920, 13.5579]], grad_fn=&lt;SliceBackward0&gt;) 
+Layer: 2.weight | Size: torch.Size([1, 2]) | Values : tensor([[-16.1471,  27.5336]], grad_fn=&lt;SliceBackward0&gt;) 
 
-Layer: 2.bias | Size: torch.Size([1]) | Values : tensor([-18.2000], grad_fn=&lt;SliceBackward0&gt;) 
+Layer: 2.bias | Size: torch.Size([1]) | Values : tensor([-5.6281], grad_fn=&lt;SliceBackward0&gt;) 
 </pre></div>
 </div>
 <img alt="../_images/02_logistic_regression_40_1.png" src="../_images/02_logistic_regression_40_1.png" />
@@ -1293,11 +1293,7 @@ Layer: 2.bias | Size: torch.Size([1]) | Values : tensor([-18.2000], grad_fn=&lt;
 </div>
 </div>
 <div class="cell_output docutils container">
-<div class="output stderr highlight-myst-ansi notranslate"><div class="highlight"><pre><span></span>/tmp/ipykernel_1815/854895806.py:2: RuntimeWarning: overflow encountered in exp
-  return 1 / (1 + np.exp(-z))
-</pre></div>
-</div>
-<img alt="../_images/02_logistic_regression_48_1.png" src="../_images/02_logistic_regression_48_1.png" />
+<img alt="../_images/02_logistic_regression_48_0.png" src="../_images/02_logistic_regression_48_0.png" />
 </div>
 </div>
 <p>The colour scale shows the “activation” of the node (i.e. the output after applying the sigmoid function). One node in the hidden layer captures the upward (positive) slope of the decision boundary, and the other the downward (negative) slope. When combined in the output layer (and sigmoid applied), the points from the two classes are linearly separable (you can draw a linear decision boundary between them) with respect to the activation of the hidden nodes.</p>

diff --git a/notebooks/04_matrix_notation.html b/notebooks/04_matrix_notation.html
@@ -371,6 +371,11 @@ title="Print to PDF"
     <nav id="bd-toc-nav" aria-label="Page">
         <ul class="visible nav section-nav flex-column">
  <li class="toc-h2 nav-item toc-entry">
+  <a class="reference internal nav-link" href="#example-network-and-definitions">
+   Example Network and Definitions
+  </a>
+ </li>
+ <li class="toc-h2 nav-item toc-entry">
   <a class="reference internal nav-link" href="#forward-pass">
    Forward Pass
   </a>
@@ -422,6 +427,11 @@ title="Print to PDF"
                         <nav aria-label="Page">
                             <ul class="visible nav section-nav flex-column">
  <li class="toc-h2 nav-item toc-entry">
+  <a class="reference internal nav-link" href="#example-network-and-definitions">
+   Example Network and Definitions
+  </a>
+ </li>
+ <li class="toc-h2 nav-item toc-entry">
   <a class="reference internal nav-link" href="#forward-pass">
    Forward Pass
   </a>
@@ -467,8 +477,12 @@ title="Print to PDF"
 <h1>04: Matrix Notation<a class="headerlink" href="#matrix-notation" title="Permalink to this headline">#</a></h1>
 <p>So far we’ve explicitly written individual terms for every parameter, data feature, and intermediate value in the network in the examples. This makes it clear exactly what is going on at each step, but it gets clumsy, long, and inefficient.</p>
 <p>Here we show how we can represent networks with matrices, creating a much simpler (if less explicit) notation.</p>
+<section id="example-network-and-definitions">
+<h2>Example Network and Definitions<a class="headerlink" href="#example-network-and-definitions" title="Permalink to this headline">#</a></h2>
+<p>We’ll refer back to the network below throughout this section. It has an unspecified number of layers (and nodes in each layer), but we assume 2 input data features, 3 nodes in the first layer, and 1 output node for the examples.</p>
 <p><img alt="" src="../_images/04_matrix_network.png" /></p>
-<p>Size of the network and dataset:</p>
+<p>We have labelled the notation we’re going to start to use to represent the values/parameters in whole layers, rather than at individual nodes/connections. The terms are:</p>
+<p><strong>Size of the network and dataset:</strong></p>
 <ul class="simple">
 <li><p><span class="math notranslate nohighlight">\(L\)</span> - the number of layers in the network</p></li>
 <li><p><span class="math notranslate nohighlight">\(n^{[l]}\)</span> - the number of nodes in layer <span class="math notranslate nohighlight">\([l]\)</span></p>
@@ -479,7 +493,7 @@ title="Print to PDF"
 </li>
 <li><p><span class="math notranslate nohighlight">\(m\)</span> - the number of data samples per gradient descent iteration (aka the batch size)</p></li>
 </ul>
-<p>Parameters of, and computed values in, the network:</p>
+<p><strong>Parameters of, and computed values in, the network:</strong></p>
 <ul class="simple">
 <li><p><span class="math notranslate nohighlight">\(W^{[l]}\)</span> - the weights (arrows) between all the activations in layer <span class="math notranslate nohighlight">\([l-1]\)</span> and layer <span class="math notranslate nohighlight">\([l]\)</span>, dimensions: <span class="math notranslate nohighlight">\((n^{[l]}, n^{[l-1]})\)</span></p></li>
 <li><p><span class="math notranslate nohighlight">\(b^{[l]}\)</span> - the bias for all the nodes in layer <span class="math notranslate nohighlight">\([l]\)</span>, dimensions: <span class="math notranslate nohighlight">\((n^{[l]}, 1)\)</span></p></li>
@@ -492,6 +506,7 @@ title="Print to PDF"
 </li>
 <li><p><span class="math notranslate nohighlight">\(\mathcal{L}(y, \hat{y})\)</span> - the total loss (cost) for all the data samples, dimensions: (1)</p></li>
 </ul>
+</section>
 <section id="forward-pass">
 <h2>Forward Pass<a class="headerlink" href="#forward-pass" title="Permalink to this headline">#</a></h2>
 <section id="value-for-a-single-node-and-data-sample-dot-products">

diff --git a/notebooks/01_linear_regression.html b/notebooks/01_linear_regression.html
@@ -997,9 +997,9 @@ b = b - \alpha\frac{\partial L}{\partial b}
 </div>
 </div>
 <div class="cell_output docutils container">
-<div class="output stream highlight-myst-ansi notranslate"><div class="highlight"><pre><span></span>Layer: 0.weight | Size: torch.Size([1, 2]) | Values : tensor([[-0.4111,  0.3170]], grad_fn=&lt;SliceBackward0&gt;) 
+<div class="output stream highlight-myst-ansi notranslate"><div class="highlight"><pre><span></span>Layer: 0.weight | Size: torch.Size([1, 2]) | Values : tensor([[-0.2087,  0.5635]], grad_fn=&lt;SliceBackward0&gt;) 
 
-Layer: 0.bias | Size: torch.Size([1]) | Values : tensor([0.3080], grad_fn=&lt;SliceBackward0&gt;) 
+Layer: 0.bias | Size: torch.Size([1]) | Values : tensor([0.3819], grad_fn=&lt;SliceBackward0&gt;) 
 </pre></div>
 </div>
 </div>
@@ -1024,16 +1024,16 @@ Layer: 0.bias | Size: torch.Size([1]) | Values : tensor([0.3080], grad_fn=&lt;Sl
 </div>
 </div>
 <div class="cell_output docutils container">
-<div class="output text_plain highlight-myst-ansi notranslate"><div class="highlight"><pre><span></span>tensor([[ 0.7213],
-        [ 0.5082],
-        [ 0.4054],
-        [ 0.1465],
-        [-0.0153],
-        [ 0.5463],
-        [ 0.3407],
-        [ 0.1613],
-        [-0.5619],
-        [ 0.3494]], grad_fn=&lt;AddmmBackward0&gt;)
+<div class="output text_plain highlight-myst-ansi notranslate"><div class="highlight"><pre><span></span>tensor([[ 0.5592],
+        [ 0.4156],
+        [ 0.5857],
+        [ 0.0078],
+        [-0.3975],
+        [ 0.1304],
+        [ 0.5884],
+        [ 0.3871],
+        [-0.1930],
+        [ 0.2509]], grad_fn=&lt;AddmmBackward0&gt;)
 </pre></div>
 </div>
 </div>
@@ -1121,7 +1121,7 @@ Layer: 0.bias | Size: torch.Size([1]) | Values : tensor([0.3080], grad_fn=&lt;Sl
 <div class="cell_output docutils container">
 <div class="output stream highlight-myst-ansi notranslate"><div class="highlight"><pre><span></span>Layer: 0.weight | Size: torch.Size([1, 2]) | Values : tensor([[0.2929, 0.7050]], grad_fn=&lt;SliceBackward0&gt;) 
 
-Layer: 0.bias | Size: torch.Size([1]) | Values : tensor([-7.9564e-10], grad_fn=&lt;SliceBackward0&gt;) 
+Layer: 0.bias | Size: torch.Size([1]) | Values : tensor([-1.9427e-09], grad_fn=&lt;SliceBackward0&gt;) 
 </pre></div>
 </div>
 <img alt="../_images/01_linear_regression_41_1.png" src="../_images/01_linear_regression_41_1.png" />
